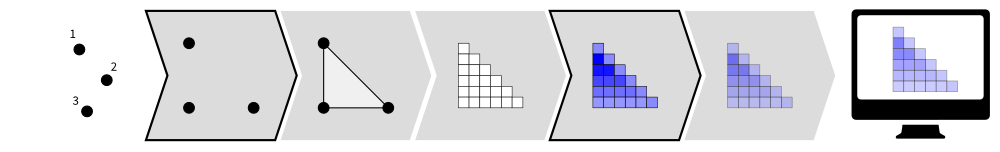
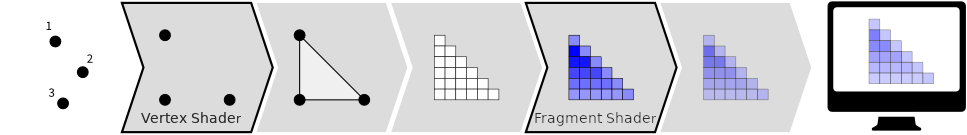
Improve slides

diff --git a/presentation/server/public/presentation/demo_01_cube/8/index.html b/presentation/server/public/presentation/demo_01_cube/8/index.html
@@ -54,15 +54,16 @@
                     <img src="../../assets/gl-pipeline.png" style="display: block; width: 800px; height: auto; position: absolute; bottom: 0; text-align: center;">
                 </div> -->
                 
-                <br/>
+                <p>JS :</p>
                 <pre class="prettyprint lang-js" style="margin-top:0">
     gl.uniformMatrix4fv(
         gl.getUniformLocation(program, 'uProjectionMatrix'),    // where to push my matrix
         false,                                                  // transpose
         projectionMatrix);                                      // the matrix I want to push</pre>
 
-                <p style="text-align: center">
-                    <img src="../../assets/pipe.png" width="200" height="30px" style="text-align: center">
+                <p class="bicolumns">
+                    <span style="text-align: left;">Vertex Shader :</span>
+                    <span style="text-align: center;"><img src="../../assets/pipe2.png" width="200" height="30px" style="margin-left: -230px;"></span>
                 </p>
                 <pre class="prettyprint lang-js">
     layout(location = 0) in vec4 aVertexPosition;
@@ -75,8 +76,9 @@
         vColor = aVertexColor;
     }</pre>
                 
-                <p style="text-align: center">
-                    <img src="../../assets/pipe.png" width="200" height="30px" style="text-align: center">
+                <p class="bicolumns">
+                    <span style="text-align: left;">Fragment Shader :</span>
+                    <span style="text-align: center"><img src="../../assets/pipe2.png" width="200" height="30px" style="margin-left: -230px;"></span>
                 </p>
                 <pre class="prettyprint lang-js">
     in lowp vec4 vColor;

diff --git a/presentation/server/public/presentation/demo_05_bump/0/index.html b/presentation/server/public/presentation/demo_05_bump/0/index.html
@@ -31,7 +31,7 @@
             <br/>
             <br/>
 
-            <img src="../../../assets/normal_map.png" style="width: 100%; max-width: 963px;"/>
+            <img src="../../../assets/normal_map.png" style="width: 100%; max-width: 1127px;"/>
         </div>
     </section>
 

diff --git a/presentation/server/public/assets/main.css b/presentation/server/public/assets/main.css
@@ -55,6 +55,11 @@ body {
     overflow: auto;
 }
 
+.bicolumns {
+    display: grid;
+    grid-template-columns: 200px auto;
+}
+
 #game {
     display: grid;
     grid-template-columns: auto auto;
